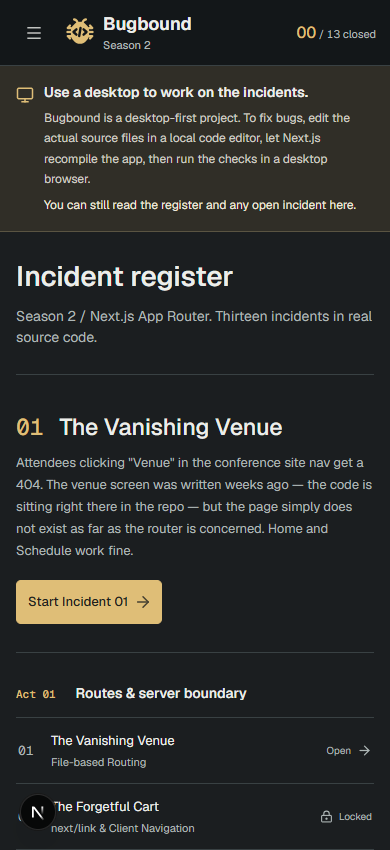
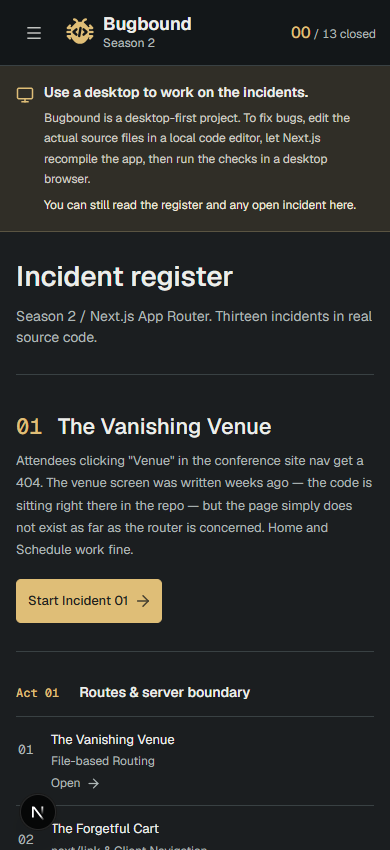
Hold the shell at a 12px type floor
- Raise the remaining 10-11px roles to 12px: season label, the Incident
  label over the folio, footer, rail numerals, register act index and
  register states. On phones, register states move under the title
  instead of shrinking beside it.
- Remove the sidebar footnote, which repeated the header and register,
  and its now-unused color role.
- Fold the one-off 17px and 23px sizes into the 16px and 22px steps.
- DESIGN.md states the floor as a rule and lists the size scale.

Browser suites pass; review evidence is refreshed.

diff --git a/src/shell/workspace/workspace.css b/src/shell/workspace/workspace.css
@@ -34,7 +34,6 @@
   --desk-active-row-text: #eef5f2;
   --desk-locked-text: #a0aaa9;
   --desk-locked-index: #929c9b;
-  --desk-rail-footer: #949f9e;
   --desk-register-hover: #273133;
   --desk-source-rule: #30383a;
   --desk-preview-border: #536062;
@@ -192,8 +191,8 @@ html:has(.game-shell) {
 }
 .brand-season {
   display: block;
-  margin-top: 4px;
-  font-size: 11px;
+  margin-top: 3px;
+  font-size: 12px;
   font-weight: 450;
   color: var(--desk-muted);
 }
@@ -238,9 +237,7 @@ html:has(.game-shell) {
 .sidebar-collapsed .desk-body {
   grid-template-columns: 64px minmax(0, 1fr);
 }
-.sidebar-collapsed
-  .desk-sidebar
-  :is(.nav-register-heading, .nav-groups, .sidebar-end) {
+.sidebar-collapsed .desk-sidebar :is(.nav-register-heading, .nav-groups) {
   display: none;
 }
 .sidebar-collapsed .nav-register-row:has(> button) {
@@ -363,7 +360,7 @@ html:has(.game-shell) {
 }
 .nav-number {
   color: var(--desk-accent);
-  font-size: 11px;
+  font-size: 12px;
   font-family: var(--font-geist-mono), monospace;
 }
 .nav-locked {
@@ -415,15 +412,6 @@ html:has(.game-shell) {
 .nav-index-locked {
   color: var(--desk-locked-index);
 }
-.sidebar-end {
-  display: flex;
-  flex-direction: column;
-  gap: 3px;
-  padding: 36px 10px 0;
-  margin-top: auto;
-  color: var(--desk-rail-footer);
-  font-size: 11px;
-}
 .desk-content {
   min-width: 0;
 }
@@ -443,7 +431,7 @@ html:has(.game-shell) {
   border-top: 1px solid var(--desk-rule);
   padding: 16px 28px;
   color: var(--desk-muted);
-  font-size: 11px;
+  font-size: 12px;
 }
 .desktop-notice {
   display: none;
@@ -467,7 +455,7 @@ html:has(.game-shell) {
   flex-shrink: 0;
 }
 .case-index > span {
-  font-size: 11px;
+  font-size: 12px;
 }
 .case-index > strong {
   font-family: var(--font-geist-mono), monospace;
@@ -820,7 +808,7 @@ html:has(.game-shell) {
   scroll-margin-top: 150px;
 }
 .closed-entry[data-standing] .closed-heading {
-  font-size: 17px;
+  font-size: 16px;
 }
 .closed-heading svg {
   width: 20px;
@@ -968,7 +956,7 @@ html:has(.game-shell) {
   border-bottom: 1px solid var(--desk-rule);
 }
 .next-incident h2 {
-  font-size: 23px;
+  font-size: 22px;
   line-height: 1.4;
   font-weight: 500;
   margin-top: 8px;
@@ -998,7 +986,7 @@ html:has(.game-shell) {
   margin-bottom: 13px;
 }
 .register-act > h2 > span {
-  font-size: 11px;
+  font-size: 12px;
   color: var(--desk-accent);
   font-family: var(--font-geist-mono), monospace;
 }
@@ -1033,7 +1021,7 @@ html:has(.game-shell) {
   display: flex;
   align-items: center;
   gap: 6px;
-  font-size: 11px;
+  font-size: 12px;
   color: var(--desk-muted);
 }
 .desk-dialog {
@@ -1242,9 +1230,6 @@ html:has(.game-shell) {
     font-size: 18px;
     gap: 7px;
   }
-  .desk-progress {
-    font-size: 11px;
-  }
   .desktop-notice {
     padding: 16px;
     gap: 10px;
@@ -1276,19 +1261,17 @@ html:has(.game-shell) {
   .route-preview iframe {
     height: 350px;
   }
+  /* Phones: the state moves under the title instead of shrinking beside it. */
   .register-act li > :is(a, div) {
-    grid-template-columns: 24px 1fr auto;
-    gap: 9px;
+    grid-template-columns: 24px minmax(0, 1fr);
+    gap: 4px 9px;
     padding-inline: 2px;
   }
   .register-state {
-    font-size: 10px;
+    grid-column: 2;
   }
   .register-title {
     font-size: 13px;
-  }
-  .register-title > span {
-    font-size: 11px;
   }
 }
 @media (prefers-reduced-motion: reduce) {

diff --git a/src/shell/workspace/Workspace.tsx b/src/shell/workspace/Workspace.tsx
@@ -208,10 +208,6 @@ export default function Workspace({ children }: { children: ReactNode }) {
                 </Tooltip>
               }
             />
-            <div className="sidebar-end">
-              <span>Next.js App Router</span>
-              <span>13 incidents / 3 acts</span>
-            </div>
           </aside>
           <div className="desk-content">
             {(loadError || saveError || resetError) && (

diff --git a/DESIGN.md b/DESIGN.md
@@ -23,7 +23,6 @@ colors:
   destructive: "#b94348"
   selection: "#c0aa70"
   locked-index: "#929c9b"
-  rail-footer: "#949f9e"
   preview-label: "#bed5d2"
   preview-address: "#b6c0c0"
   failure-detail: "#f4b5b5"
@@ -54,15 +53,9 @@ typography:
     fontWeight: 600
     lineHeight: 1.5
     letterSpacing: "0"
-  compact-state:
-    fontFamily: "Geist, sans-serif"
-    fontSize: "10px"
-    fontWeight: 400
-    lineHeight: 1.5
-    letterSpacing: "0"
   metadata:
     fontFamily: "Geist, sans-serif"
-    fontSize: "11px"
+    fontSize: "12px"
     fontWeight: 400
     lineHeight: 1.5
     letterSpacing: "0"
@@ -110,7 +103,7 @@ typography:
     letterSpacing: "0"
   next-incident-title:
     fontFamily: "Geist, sans-serif"
-    fontSize: "23px"
+    fontSize: "22px"
     fontWeight: 500
     lineHeight: 1.4
     letterSpacing: "0"
@@ -275,17 +268,19 @@ Amber identifies incidents and primary commands; teal makes tools and focus disc
 
 Pass and fail tints identify verification results alongside icons and words. `pass` also carries the Closed state: the sage rule and heading of the Closed entry, closed marks in the rail and header strip, and "Closed" in the case record. Destructive red is reserved for the explicit reset action. Storage recovery uses a localized warm-brown band; there is no completion band.
 
-Supporting roles are explicit in the frontmatter: `locked-index`, `locked-text`, `rail-footer`, `nav-hover`, `active-row` and `active-row-text` for navigation; `register-hover` for register rows; `source-rule` between source files; `preview-border`, `preview-bar`, `preview-ground`, `preview-label` and `preview-address` for the live route; `check-idle` and `failure-detail` for verification; `reference-emphasis` for Concept emphasis; `recovery-surface` for persistence recovery; and the notice's surface, rule, text and reassurance roles. These are component states, not general-purpose brand accents. In CSS every role is a `--desk-<role>` custom property declared once on `.game-shell, .desk-overlay`; component rules never use raw color literals.
+Supporting roles are explicit in the frontmatter: `locked-index`, `locked-text`, `nav-hover`, `active-row` and `active-row-text` for navigation; `register-hover` for register rows; `source-rule` between source files; `preview-border`, `preview-bar`, `preview-ground`, `preview-label` and `preview-address` for the live route; `check-idle` and `failure-detail` for verification; `reference-emphasis` for Concept emphasis; `recovery-surface` for persistence recovery; and the notice's surface, rule, text and reassurance roles. These are component states, not general-purpose brand accents. In CSS every role is a `--desk-<role>` custom property declared once on `.game-shell, .desk-overlay`; component rules never use raw color literals.
 
 ## Typography
 
 Geist is loaded with `next/font/google` into `--font-geist-sans`; Geist Mono is loaded into `--font-geist-mono`. The workspace uses sans-serif fallbacks and selective monospace for incident numbering, source paths, and technical details. Letter spacing is zero throughout the shell and its overlays.
 
-The frontmatter records desktop, supporting, and responsive roles. Incident report prose uses a larger reading size (16px, line-height 1.65, maximum 75ch), reducing to 15px only at the narrow breakpoint. Metadata is generally 11-12px, navigation titles 12px, and command text 13px. The 10px step is reserved for narrow register states, never reading prose. Component-specific brand, next-incident, and responsive title roles are not interchangeable body sizes. The interface has no marketing-scale display heading.
+The frontmatter records desktop, supporting, and responsive roles. Incident report prose uses a larger reading size (16px, line-height 1.65, maximum 75ch), reducing to 15px only at the narrow breakpoint. **The 12px floor:** no shell text is smaller than 12px at any width, including labels, metadata, rail numerals, state words, the season label and the footer. Metadata, navigation titles and captions are 12px; command, record and check text is 13px. On phones, register states move under the title instead of shrinking. Component-specific brand, next-incident, and responsive title roles are not interchangeable body sizes. The interface has no marketing-scale display heading.
 
 Concept prose is set in **Source Serif 4** (15px, line-height 1.75, optical sizing on, roman and italic), loaded with `next/font/google` into `--font-concept-serif` by the incident layout only, so the register never downloads it. The serif marks the Concept as the reference binder beside the sans tools; the Concept heading, labels and inline code stay in Geist and Geist Mono. Paragraphs keep their full content and 20px separation. Strong emphasis uses weight 650. Inline code is 12px mono and wraps; source paths remain selectable. The Incident label is horizontally centered over its number with an 8px gap.
 
-Geist Mono is the record voice: the folio, `BUG-###` IDs, run numbers and times, counts in the workbench verdict, paths, routes and failure detail. Labels and prose never use it. New components hold a 12px floor; the remaining 10–11px roles (season label, rail numerals, sidebar footnote, footer, register act index and narrow register states) are older roles awaiting the family floor.
+Geist Mono is the record voice: the folio, `BUG-###` IDs, run numbers and times, counts in the workbench verdict, paths, routes and failure detail. Labels and prose never use it.
+
+The scale keeps a small set of steps: 12 · 13 · 14 · 15 · 16 for interface and reading text, then 20 · 22 · 30 · 32 · 42 for brand, headings, titles and the folio, plus the documented responsive title steps (18, 24, 26, 28, 36). Don't add an in-between size; pick the neighbouring step.
 
 ## Layout
 
